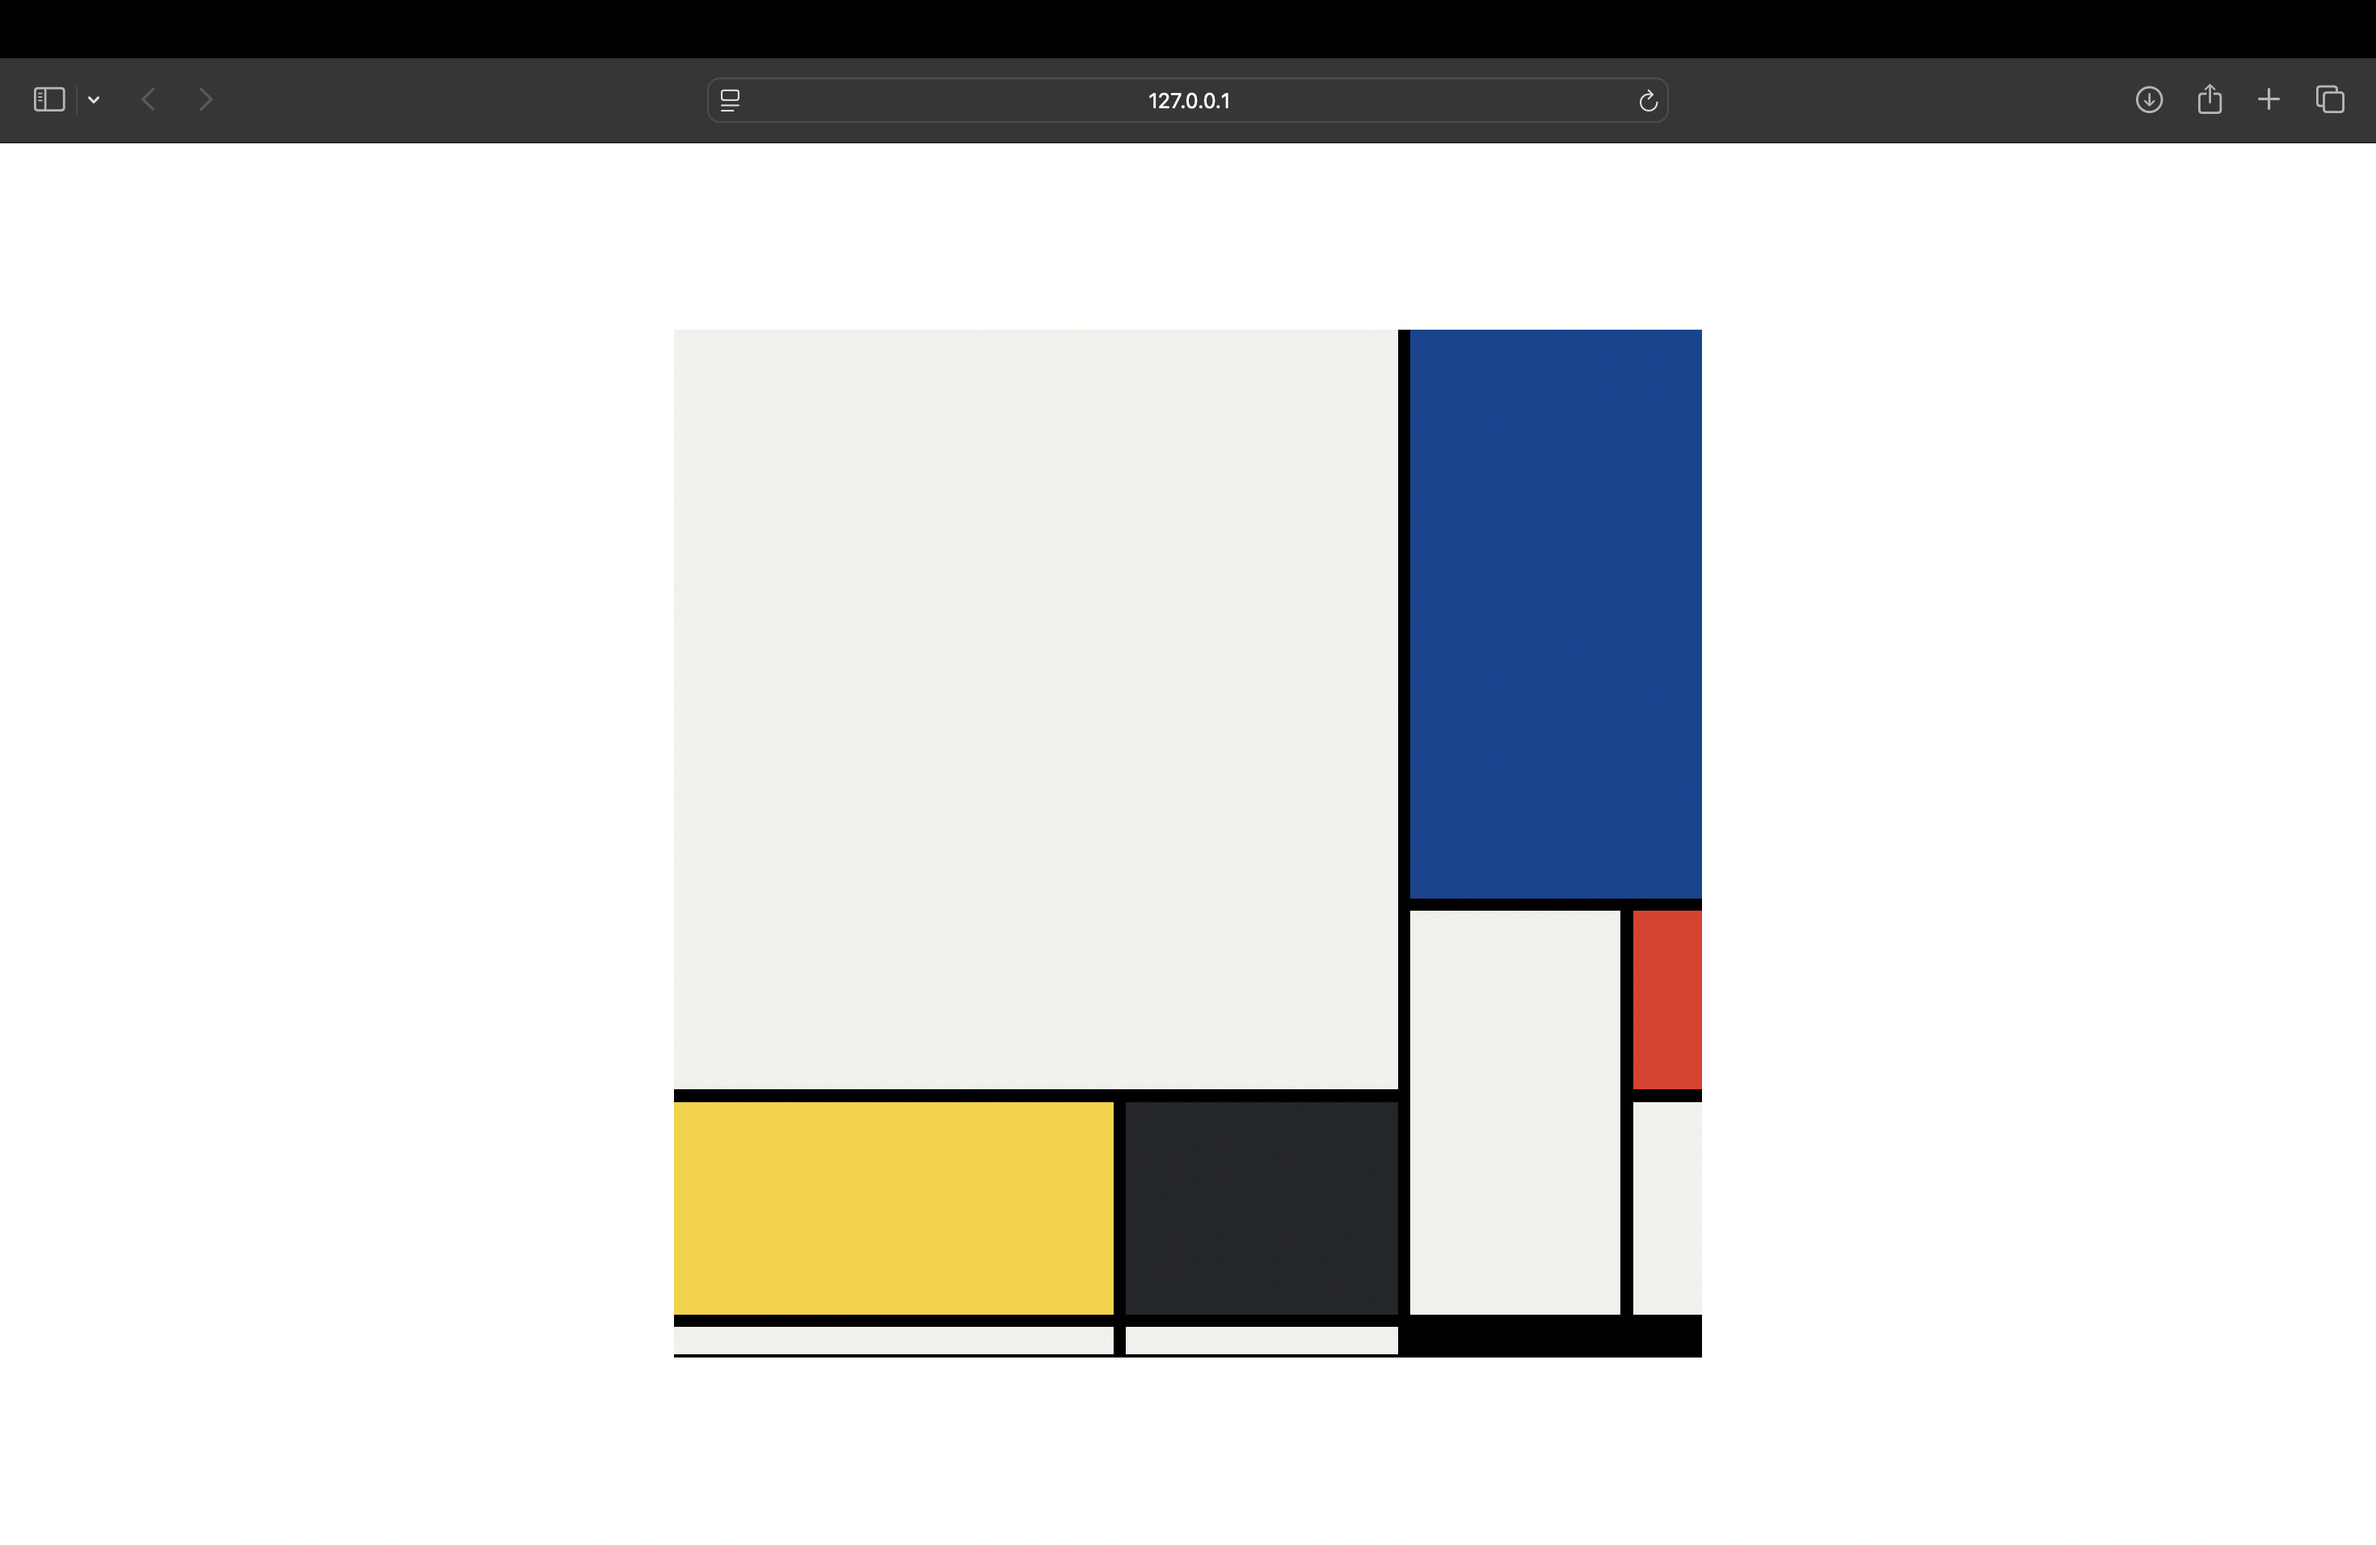
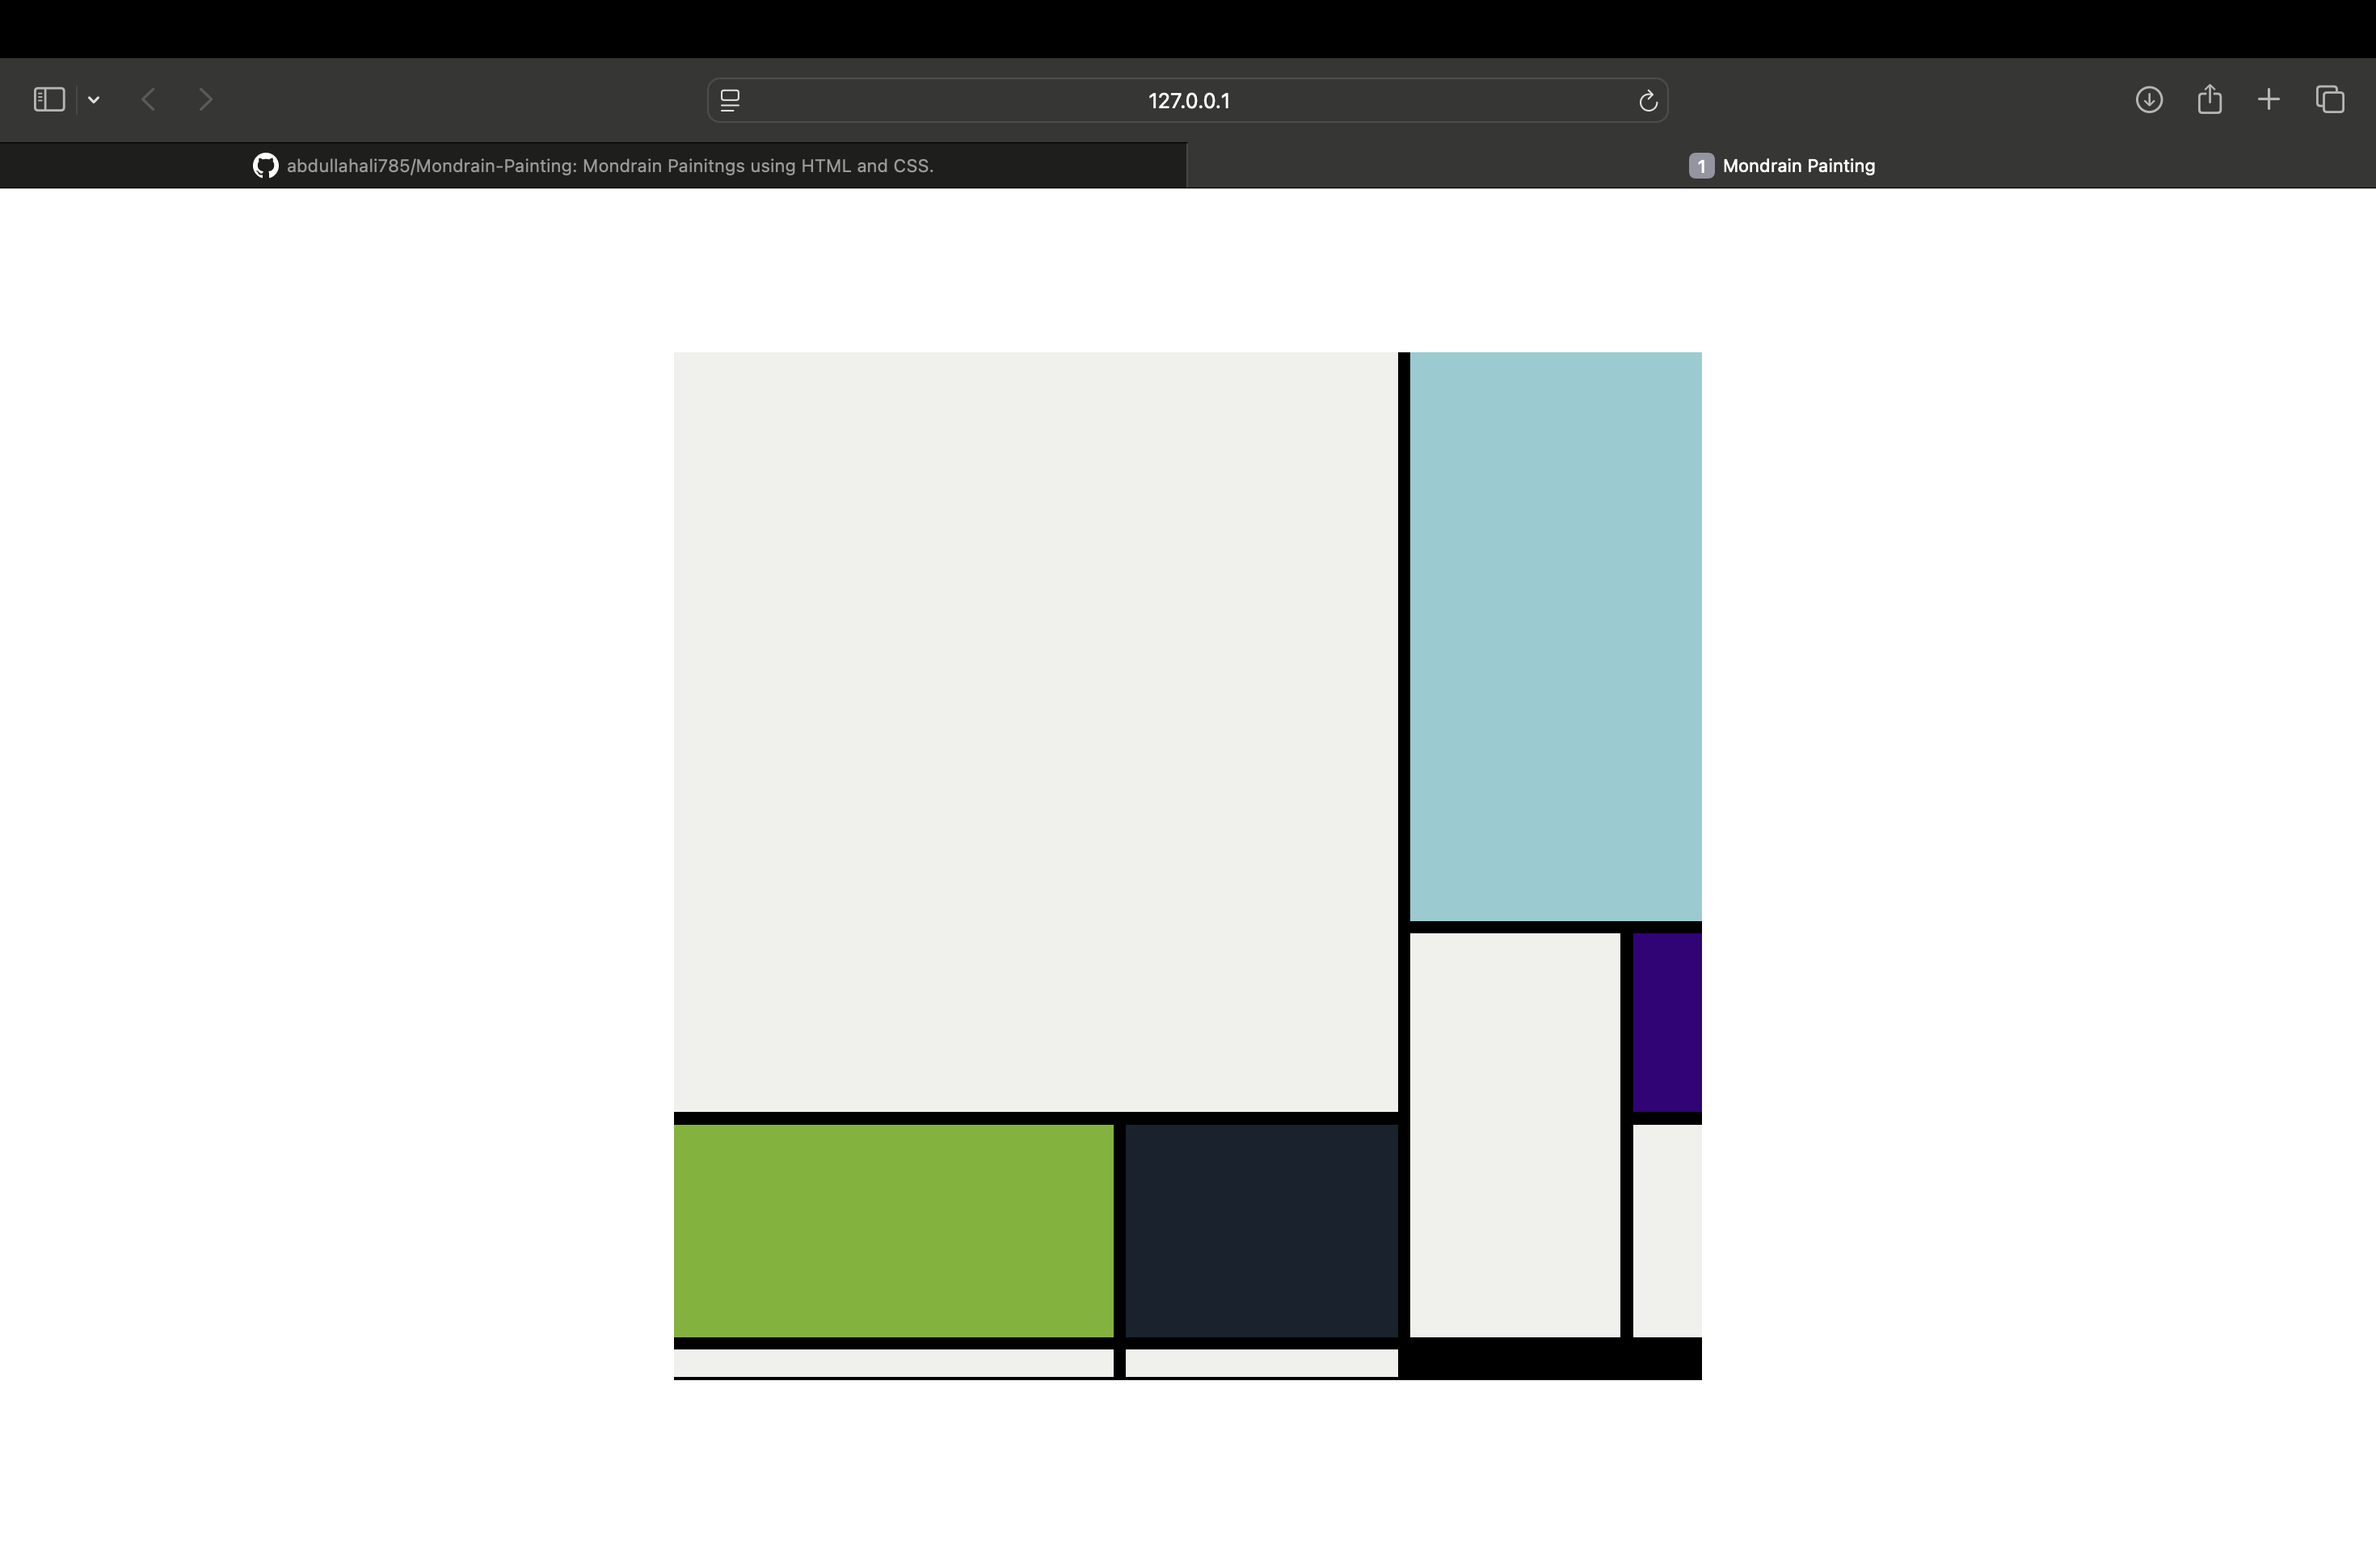
Updated colours.

Changed region(s): [[0.5881, 0.216, 0.7429, 0.7406], [0.2786, 0.6789, 0.7119, 0.8949], [0.0, 0.0926, 1.0, 0.1234]]

diff --git a/Paintings/Image1/style.css b/Paintings/Image1/style.css
@@ -22,7 +22,7 @@ body{
 }
 
 .red{
-    background-color: #E72F24;
+    background-color: #35007a;
     grid-area: 0/0/1/1;
 }
 .white1{
@@ -35,18 +35,18 @@ body{
     grid-area: 1/1/3/3;
 }
 .blue{
-    background-color: #004592;
+    background-color: #8dcdd2;
     grid-area: 1/3/2/-1;
 }
 .white5{
     grid-area: 3/0/4/1;
 }
 .yellow{
-    background-color: #F9D01E;
+    background-color: #74b51f;
     grid-area: 3/1/4/2;
 }
 .black{
-    background-color: #232629;
+    background-color: #16222e;
     grid-area: 3/2/4/3;
 }
 .white4{
